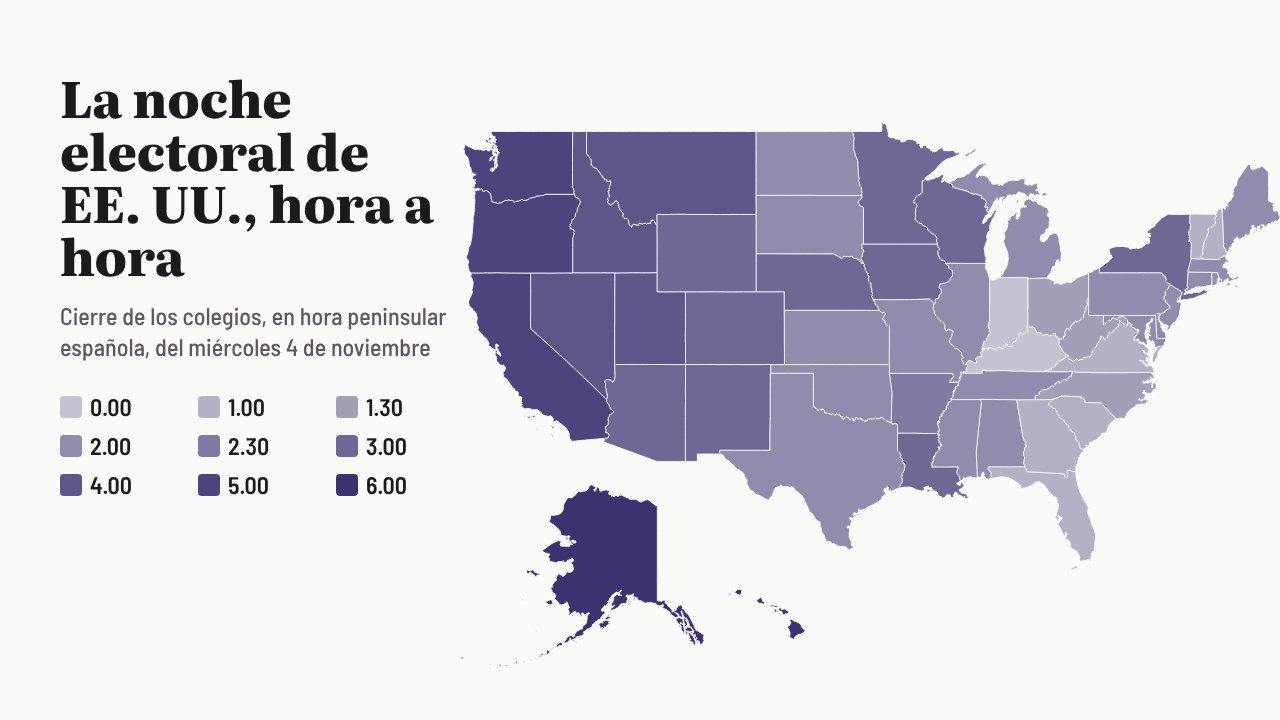
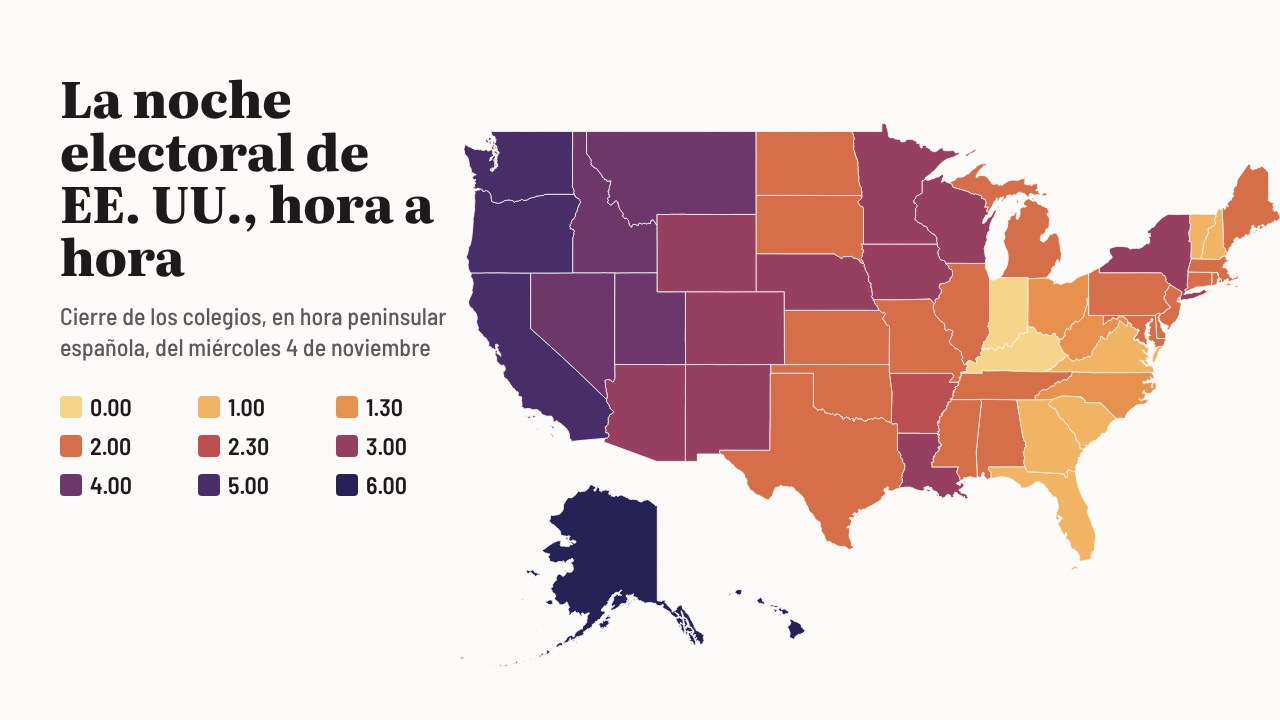
Guía de la noche electoral de EE. UU.: mapa con una escala del atardecer a la noche y los estados de cada hora resaltados
Claude-Session: https://claude.ai/code/session_01QuTKNEe4qRt6ao42Xv59ca

diff --git a/actualidad/eeuu-noche-electoral-guia-horarios/index.html b/actualidad/eeuu-noche-electoral-guia-horarios/index.html
@@ -188,7 +188,7 @@ a{color:var(--acc)} a:focus-visible,summary:focus-visible{outline:2px solid var(
 .modos button[aria-pressed=true]{background:var(--fg);color:var(--bg);border-color:var(--fg)}
 @media (min-width:900px){.scrolly{margin-inline:calc(50% - 50vw + 24px);display:grid;grid-template-columns:minmax(300px,27rem) 1fr;gap:0 32px}.scrolly .sticky{grid-column:2;grid-row:1;height:100vh;height:100svh;border-bottom:0}.steps{grid-column:1;grid-row:1}.step{min-height:100vh;min-height:100svh;display:flex;align-items:center}.step:last-child{min-height:100vh}.step .card{border-top:3px solid var(--fg);padding-top:.8rem}}
 </style><style>#umap path.e{fill:none;stroke:var(--bg);stroke-width:1.4;vector-effect:non-scaling-stroke}#umap path.on{stroke:var(--fg);stroke-width:1.6}.cita{margin:1.4rem 0;padding-left:1rem;border-left:3px solid var(--acc)}.cita p{font-size:1.08rem;margin:0 0 .4rem}.cita footer{font-family:var(--ui);color:var(--muted);font-size:.92rem}</style><style>:root{--noche:#3d3170}@media (prefers-color-scheme: dark){:root:not([data-theme="light"]){--noche:#a99be6}}:root[data-theme="dark"]{--noche:#a99be6}
-#hmap path{stroke:var(--bg);stroke-width:.8;transition:fill-opacity .3s}#hmap path.off{fill-opacity:.15}
+#hmap path{stroke:var(--bg);stroke-width:.8;transition:fill-opacity .3s}#hmap path.off{fill-opacity:.28}#hmap path.act{stroke:var(--fg);stroke-width:1.4}
 .horas{list-style:none;padding:0;margin:1.2rem 0;font-family:var(--ui)}
 .horas>li{display:grid;grid-template-columns:4.2rem 1fr;gap:.2rem 1rem;padding:.9rem 0;border-top:1px solid var(--rule);cursor:default}
 .horas .h{font-size:1.5rem;font-weight:600;line-height:1.1;color:var(--noche);font-variant-numeric:tabular-nums}
@@ -327,7 +327,7 @@ const HORAS=['0.00','1.00','1.30','2.00','2.30','3.00','4.00','5.00','6.00'];
 const GR={0:'IN KY',1:'GA SC VT VA FL NH',2:'NC OH WV',3:'AL CT DE IL ME MD MA MS MO NJ OK PA RI TN KS MI TX ND SD',4:'AR',5:'AZ CO IA LA MN NE NM NY WI WY',6:'MT NV UT ID',7:'CA WA OR',8:'HI AK'};
 const HORA={};for(const h in GR)GR[h].split(' ').forEach(s=>HORA[s]=+h);
 const ESTN={AL:'Alabama',AK:'Alaska',AZ:'Arizona',AR:'Arkansas',CA:'California',CO:'Colorado',CT:'Connecticut',DE:'Delaware',FL:'Florida',GA:'Georgia',HI:'Hawái',ID:'Idaho',IL:'Illinois',IN:'Indiana',IA:'Iowa',KS:'Kansas',KY:'Kentucky',LA:'Luisiana',ME:'Maine',MD:'Maryland',MA:'Massachusetts',MI:'Míchigan',MN:'Minnesota',MS:'Misisipi',MO:'Misuri',MT:'Montana',NE:'Nebraska',NV:'Nevada',NH:'New Hampshire',NJ:'Nueva Jersey',NM:'Nuevo México',NY:'Nueva York',NC:'Carolina del Norte',ND:'Dakota del Norte',OH:'Ohio',OK:'Oklahoma',OR:'Oregón',PA:'Pensilvania',RI:'Rhode Island',SC:'Carolina del Sur',SD:'Dakota del Sur',TN:'Tennessee',TX:'Texas',UT:'Utah',VT:'Vermont',VA:'Virginia',WA:'Washington',WV:'Virginia Occidental',WI:'Wisconsin',WY:'Wyoming'};
-const col=h=>`color-mix(in srgb,var(--noche) ${Math.round(28+h*72/8)}%,var(--bg))`;
+const RAMPA=['#f6d58a','#f1b465','#e8914f','#d66e4a','#bb4f52','#963f60','#6e3769','#482e69','#262255'];const col=h=>RAMPA[h];
 (function(){const box=document.getElementById('hmap');
  const t=document.createElement('div');t.className='tip';t.hidden=true;box.appendChild(t);
  const svg=el('svg',{viewBox:`0 0 ${EST.W} ${EST.H}`,role:'img','aria-label':'Mapa de Estados Unidos con la hora española de cierre de los colegios en cada estado, de las 0.00 a las 6.00 del miércoles'},box);
@@ -337,7 +337,7 @@ const col=h=>`color-mix(in srgb,var(--noche) ${Math.round(28+h*72/8)}%,var(--bg)
   p.addEventListener('mousemove',show);p.addEventListener('touchstart',show,{passive:true});p.addEventListener('mouseleave',()=>{t.hidden=true;marca(act)});});
  document.getElementById('hleg').innerHTML=HORAS.map((h,i)=>`<span><i class="sw" style="background:${col(i)}"></i>${h}</span>`).join('');
  const lis=[...document.querySelectorAll('#horas>li')];let act=null;
- function marca(h){for(const s in P)P[s].classList.toggle('off',h!==null&&HORA[s]!==h);lis.forEach(l=>l.classList.toggle('on',h!==null&&+l.dataset.h===h))}
+ function marca(h){for(const s in P){const on=h!==null&&HORA[s]===h;P[s].classList.toggle('off',h!==null&&!on);P[s].classList.toggle('act',on);if(on)svg.appendChild(P[s])}lis.forEach(l=>l.classList.toggle('on',h!==null&&+l.dataset.h===h))}
  const fija=()=>marca(act);
  lis.forEach(l=>{const h=+l.dataset.h;l.addEventListener('mouseenter',()=>marca(h));l.addEventListener('mouseleave',fija)});
  // al bajar por la lista, el mapa marca la hora que cruza la mitad inferior de la pantalla

diff --git a/actualidad/src/eeuu-noche-electoral-guia-horarios.html b/actualidad/src/eeuu-noche-electoral-guia-horarios.html
@@ -71,7 +71,7 @@ a{color:var(--acc)} a:focus-visible,summary:focus-visible{outline:2px solid var(
 </style>
 <style>#umap path.e{fill:none;stroke:var(--bg);stroke-width:1.4;vector-effect:non-scaling-stroke}#umap path.on{stroke:var(--fg);stroke-width:1.6}.cita{margin:1.4rem 0;padding-left:1rem;border-left:3px solid var(--acc)}.cita p{font-size:1.08rem;margin:0 0 .4rem}.cita footer{font-family:var(--ui);color:var(--muted);font-size:.92rem}</style>
 <style>:root{--noche:#3d3170}@media (prefers-color-scheme: dark){:root:not([data-theme="light"]){--noche:#a99be6}}:root[data-theme="dark"]{--noche:#a99be6}
-#hmap path{stroke:var(--bg);stroke-width:.8;transition:fill-opacity .3s}#hmap path.off{fill-opacity:.15}
+#hmap path{stroke:var(--bg);stroke-width:.8;transition:fill-opacity .3s}#hmap path.off{fill-opacity:.28}#hmap path.act{stroke:var(--fg);stroke-width:1.4}
 .horas{list-style:none;padding:0;margin:1.2rem 0;font-family:var(--ui)}
 .horas>li{display:grid;grid-template-columns:4.2rem 1fr;gap:.2rem 1rem;padding:.9rem 0;border-top:1px solid var(--rule);cursor:default}
 .horas .h{font-size:1.5rem;font-weight:600;line-height:1.1;color:var(--noche);font-variant-numeric:tabular-nums}
@@ -152,7 +152,7 @@ const HORAS=['0.00','1.00','1.30','2.00','2.30','3.00','4.00','5.00','6.00'];
 const GR={0:'IN KY',1:'GA SC VT VA FL NH',2:'NC OH WV',3:'AL CT DE IL ME MD MA MS MO NJ OK PA RI TN KS MI TX ND SD',4:'AR',5:'AZ CO IA LA MN NE NM NY WI WY',6:'MT NV UT ID',7:'CA WA OR',8:'HI AK'};
 const HORA={};for(const h in GR)GR[h].split(' ').forEach(s=>HORA[s]=+h);
 const ESTN={AL:'Alabama',AK:'Alaska',AZ:'Arizona',AR:'Arkansas',CA:'California',CO:'Colorado',CT:'Connecticut',DE:'Delaware',FL:'Florida',GA:'Georgia',HI:'Hawái',ID:'Idaho',IL:'Illinois',IN:'Indiana',IA:'Iowa',KS:'Kansas',KY:'Kentucky',LA:'Luisiana',ME:'Maine',MD:'Maryland',MA:'Massachusetts',MI:'Míchigan',MN:'Minnesota',MS:'Misisipi',MO:'Misuri',MT:'Montana',NE:'Nebraska',NV:'Nevada',NH:'New Hampshire',NJ:'Nueva Jersey',NM:'Nuevo México',NY:'Nueva York',NC:'Carolina del Norte',ND:'Dakota del Norte',OH:'Ohio',OK:'Oklahoma',OR:'Oregón',PA:'Pensilvania',RI:'Rhode Island',SC:'Carolina del Sur',SD:'Dakota del Sur',TN:'Tennessee',TX:'Texas',UT:'Utah',VT:'Vermont',VA:'Virginia',WA:'Washington',WV:'Virginia Occidental',WI:'Wisconsin',WY:'Wyoming'};
-const col=h=>`color-mix(in srgb,var(--noche) ${Math.round(28+h*72/8)}%,var(--bg))`;
+const RAMPA=['#f6d58a','#f1b465','#e8914f','#d66e4a','#bb4f52','#963f60','#6e3769','#482e69','#262255'];const col=h=>RAMPA[h];
 (function(){const box=document.getElementById('hmap');
  const t=document.createElement('div');t.className='tip';t.hidden=true;box.appendChild(t);
  const svg=el('svg',{viewBox:`0 0 ${EST.W} ${EST.H}`,role:'img','aria-label':'Mapa de Estados Unidos con la hora española de cierre de los colegios en cada estado, de las 0.00 a las 6.00 del miércoles'},box);
@@ -162,7 +162,7 @@ const col=h=>`color-mix(in srgb,var(--noche) ${Math.round(28+h*72/8)}%,var(--bg)
   p.addEventListener('mousemove',show);p.addEventListener('touchstart',show,{passive:true});p.addEventListener('mouseleave',()=>{t.hidden=true;marca(act)});});
  document.getElementById('hleg').innerHTML=HORAS.map((h,i)=>`<span><i class="sw" style="background:${col(i)}"></i>${h}</span>`).join('');
  const lis=[...document.querySelectorAll('#horas>li')];let act=null;
- function marca(h){for(const s in P)P[s].classList.toggle('off',h!==null&&HORA[s]!==h);lis.forEach(l=>l.classList.toggle('on',h!==null&&+l.dataset.h===h))}
+ function marca(h){for(const s in P){const on=h!==null&&HORA[s]===h;P[s].classList.toggle('off',h!==null&&!on);P[s].classList.toggle('act',on);if(on)svg.appendChild(P[s])}lis.forEach(l=>l.classList.toggle('on',h!==null&&+l.dataset.h===h))}
  const fija=()=>marca(act);
  lis.forEach(l=>{const h=+l.dataset.h;l.addEventListener('mouseenter',()=>marca(h));l.addEventListener('mouseleave',fija)});
  // al bajar por la lista, el mapa marca la hora que cruza la mitad inferior de la pantalla
